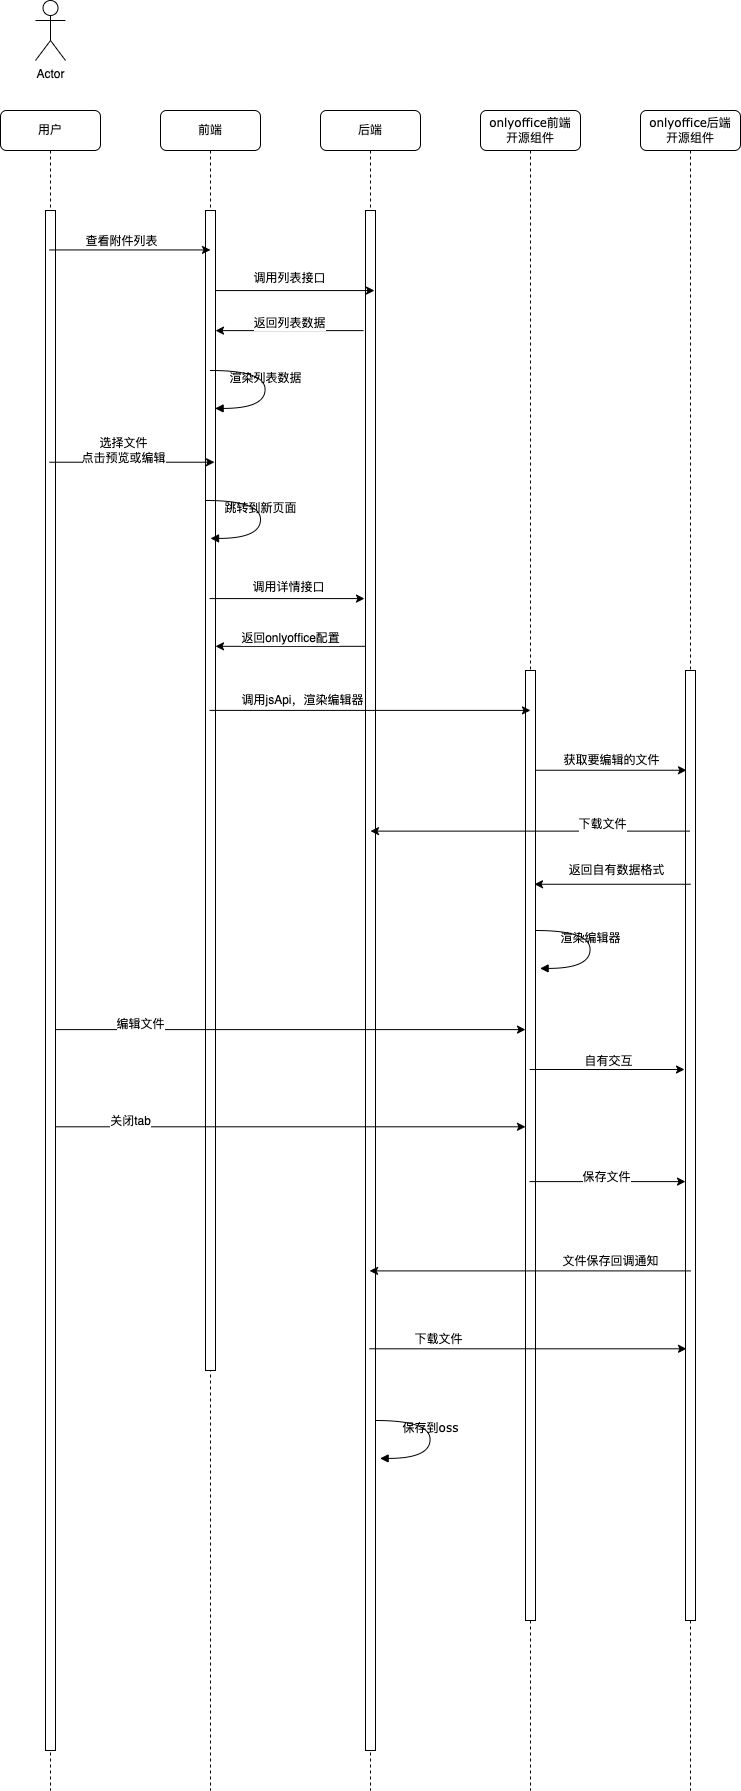
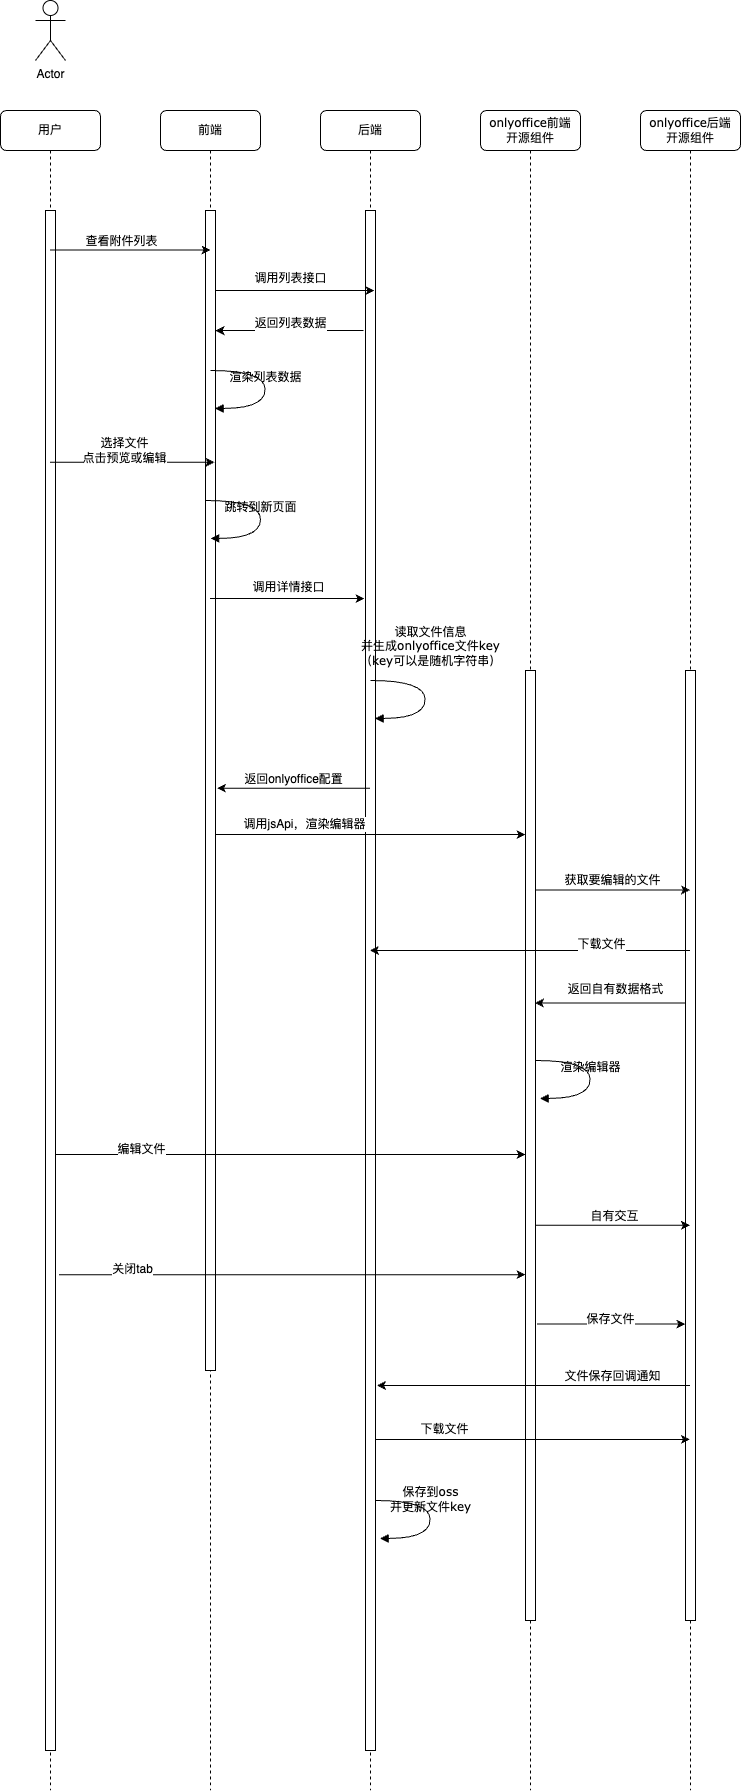
onlyoffice
onlyoffice

diff --git a/知识点总结/杂活/onlyoffice.md b/知识点总结/杂活/onlyoffice.md
@@ -1,0 +1,264 @@
+- [1.什么是onlyoffice](http://wiki.zswltech.cn:8888/display/SPC/onlyoffice#onlyoffice-1.什么是onlyoffice)
+- [2.部署资源](http://wiki.zswltech.cn:8888/display/SPC/onlyoffice#onlyoffice-2.部署资源)
+- [3.集成](http://wiki.zswltech.cn:8888/display/SPC/onlyoffice#onlyoffice-3.集成)
+  - [3.1集成方式及注意事项](http://wiki.zswltech.cn:8888/display/SPC/onlyoffice#onlyoffice-3.1集成方式及注意事项)
+    - [3.1.1前端](http://wiki.zswltech.cn:8888/display/SPC/onlyoffice#onlyoffice-3.1.1前端)
+    - [3.1.2后端](http://wiki.zswltech.cn:8888/display/SPC/onlyoffice#onlyoffice-3.1.2后端)
+    - [3.1.3注意事项](http://wiki.zswltech.cn:8888/display/SPC/onlyoffice#onlyoffice-3.1.3注意事项)
+  - [3.2操作时序图](http://wiki.zswltech.cn:8888/display/SPC/onlyoffice#onlyoffice-3.2操作时序图)
+  - [3.3权限控制的一种方式](http://wiki.zswltech.cn:8888/display/SPC/onlyoffice#onlyoffice-3.3权限控制的一种方式)
+- [4.onlyoffice重点配置](http://wiki.zswltech.cn:8888/display/SPC/onlyoffice#onlyoffice-4.onlyoffice重点配置)
+  - [4.1Config](http://wiki.zswltech.cn:8888/display/SPC/onlyoffice#onlyoffice-4.1Config)
+  - [4.2Config.Document](http://wiki.zswltech.cn:8888/display/SPC/onlyoffice#onlyoffice-4.2Config.Document)
+  - [4.3Config.Editor](http://wiki.zswltech.cn:8888/display/SPC/onlyoffice#onlyoffice-4.3Config.Editor)
+  - [4.4参数示例](http://wiki.zswltech.cn:8888/display/SPC/onlyoffice#onlyoffice-4.4参数示例)
+- [5.附录](http://wiki.zswltech.cn:8888/display/SPC/onlyoffice#onlyoffice-5.附录)
+  - [5.1也可以看看](http://wiki.zswltech.cn:8888/display/SPC/onlyoffice#onlyoffice-5.1也可以看看)
+  - [5.2相关网址](http://wiki.zswltech.cn:8888/display/SPC/onlyoffice#onlyoffice-5.2相关网址)
+
+
+
+# 1.什么是onlyoffice
+
+onlyoffice可以与我们的业务系统集成，提供文档协作的服务功能，支持Word，Excel和PowerPoint的预览和编辑。
+
+onlyoffice有开源社区版，有免费的版本，包含大部分商业版的功能，但有20同时在线连接的限制（可破解）。
+
+onlyoffice在浏览器上操作office文档功能肯定没有桌面版功能齐全，但是在web界面上做一些简单的操作还是可以的。
+
+# 2.部署资源
+
+建议使用docker部署，onlyoffice本身需要一些mq、数据库等相关配套组件（但这部分数据我个人认为并不需要保证不丢失，数据只用作缓存），如果单独安装相关套件，比较麻烦。
+
+# 3.集成
+
+## 3.1集成方式及注意事项
+
+简单来说，onlyoffice的使用方式就是前端引入onlyoffice的js文件，并传递参数调用它的api，唤起onlyoffice的编辑器，后续在界面上的操作全由onlyoffice自己处理。
+
+比较重要的配置就包括：文件的key、下载文件的url、编辑完后回调的url。
+
+最简单的实现情况下：后端3个接口，前端引1个js文件并调用后端1个接口。
+
+onlyoffice也提供了一些jsapi可供调用，前端可以在合适的时机（如封装一个按钮）进行调用以改变编辑器的属性。
+
+### 3.1.1前端
+
+1.针对onlyoffice，前端仅需要引入onlyoffice的一个js（{{host}}/web-apps/apps/api/documents/api.js），这个js文件会自动引用剩余所需的js文件并在合适的时机自动调用onlyoffice服务端（所以无法把这个js文件复制出来单独引用）。
+
+2.针对业务系统，前端需要调用后端提供的接口，获取onlyoffice的配置。（原因：后端可以动态判断权限或其他的条件，动态的修改编辑器的展现形式）
+
+3.在文件操作界面初始化时，调用后端配置接口获取onlyoffice配置，然后带着配置调用onlyoffice的jsapi，初始化编辑器。
+
+### 3.1.2后端
+
+1.针对onlyoffice，后端需要给它的服务端提供两个接口：文件下载接口和编辑后回调接口。
+
+文件下载接口：前端调用jsapi唤起编辑器时会传文件下载url，然后onlyoffice js会将该参数传给它的服务端，它的服务端会访问url下载文件。租赁系统的做法是将下载接口统一，文件的标识就是onlyoffice所需的文件key，根据该key我们需要维护对应的文件信息或oss路径，然后进行下载。
+
+编辑后回调接口：需提供一个POST（JSON）接口。用户在界面上编辑后，onlyoffice服务端回调回来的参数是一个json，里面包含了如本次操作类型、文件缓存下载地址（用户编辑完文件后，onlyoffice会将该文件暴露出一个下载地址，但有时效）等。我们的接口在接收到回调后，需下载缓存文件上传到我们自己的文件系统，并处理相关业务逻辑。
+
+2.针对业务系统，后端需要提供接口将onlyoffice的配置传递给前端。前端需传参数：要预览的文件标识（我们所有模块文件在一张表里，传1个文件id即可。如果要预览的文件散落在不同表，就需要额外参数来定位到具体的文件）、本次操作类型（预览还是编辑）、窗体类型（web端还是移动端）
+
+3.由于onlyoffice文件预览、编辑等都有个key，所以后端需要维护一套key → 业务自身文件数据的映射。租赁系统的做法是前端在调用接口获取onlyoffice配置的时候，针对该文件获取一个已存在的key，如果不存在则生成。用户在界面上编辑文件，onlyoffice回调我方后端时，根据key查到oss中存储的路径，保存文件后需更新此key（否则会导致编辑器报错：文件已发生变化，xxx）。
+
+给出一个key映射表以供参考，key的生成规则就是一个随机字符串
+
+```sql
+CREATE TABLE `onlyoffice_key_store` ( 
+  `id` bigint(20) NOT NULL AUTO_INCREMENT COMMENT '主键', 		  
+  `file_oss_path` varchar(256) NOT NULL COMMENT '文件oss路径', 
+  `file_oss_path_md5` varchar(32) NOT NULL COMMENT '文件oss路径 md5值', 
+  `file_key` varchar(32) NOT NULL COMMENT '随机生成的key，文件未改动前不变', 
+  `create_time` datetime DEFAULT CURRENT_TIMESTAMP, 
+  `update_time` datetime DEFAULT CURRENT_TIMESTAMP ON UPDATE CURRENT_TIMESTAMP, 
+  PRIMARY KEY (`id`)
+) ENGINE=InnoDB AUTO_INCREMENT=1 DEFAULT CHARSET=utf8mb4 COMMENT='onlyoffice文件key存档';
+```
+
+
+
+### 3.1.3注意事项
+
+1.后端返回的配置字段名最好都有确定值，如果没有值，字段值为null或undefined，会导致非预期的效果（不会使用默认配置）
+
+2.onlyoffice编辑后回调后端服务传的参数中，文件下载的url的host与前端引入js的host一致，后端服务需能访问该host才能正常下载文件。
+
+这个问题在我们的内网环境中有点绕，为了不连vpn访问业务系统，需要给onlyoffice服务器配域名（xxx.zswl.cn:8888），但是我们的服务器本身无法访问公网，正常情况下后端也就无法下载到文件。需要在后端服务器上配置host和nginx转发规则，后端访问域名（xxx.zswl.cn:8888）时需要通过内网访问到onlyoffice服务。
+
+3.注意对和onlyoffice服务端交互的接口放开登陆校验
+
+## 3.2操作时序图
+
+
+
+## 3.3权限控制的一种方式
+
+既然配置全由后端返回，后端就可以根据权限动态的填充参数，如果没有编辑权限，就报错或者填充成预览态的参数就好了。
+
+租赁系统的做法：先根据前端参数渲染出通用的配置，再根据当前想操作的文件相关的业务属性对配置做修改。
+
+# 4.onlyoffice重点配置
+
+上文中提过前端需要带着参数调用onlyoffice的jsapi唤起编辑器，这些参数就是一个json，这里简单描述下重点参数（都以官方字段命名进行描述，实际json里的字段名可能有出入）。
+
+官网配置属性介绍：https://api.onlyoffice.com/editors/config/
+
+## 4.1Config
+
+Config.documentType：文件类型（word、cell、slide（ppt等文件）），onlyoffice针对不同类型文件有不同的渲染方式
+
+Config.type：窗体类型（desktop、mobile、embedded），不同窗体有不同渲染方式，一般只用desktop（浏览器）、mobile（移动端）
+
+## 4.2Config.Document
+
+Config.Document.fileType：文件后缀名（不带.），如docx、xlsx。
+
+Config.Document.key：文件标识，同一个key代表同一个文件，onlyoffice自己有数据，并且多人协作时也需要根据这个key指向onlyoffice数据里的同一个文件。
+
+Config.Document.title：文件标题。
+
+Config.Document.url：文件下载地址，这个地址要能下载到一个文件，才能正常预览。
+
+Config.Document.Permissions.copy：界面上的内容是否可复制。
+
+Config.Document.Permissions.download：下载权限，设成false下载tab会被隐藏。
+
+Config.Document.Permissions.edit：编辑权限，设成false会展示预览态，但此处不是唯一的控制入口（Config.Editor.mode），两处配置的控制最好保持一致，否则会出现非预期的结果。
+
+Config.Document.Permissions.print：打印权限，设成false打印tab会隐藏。
+
+Config.Document.Permissions.review：查看修订变更的权限，最好设成true。
+
+## 4.3Config.Editor
+
+Config.Editor.callbackUrl：编辑后回调的url。这应该指向一个POST接口，传递回来的数据是json格式。
+
+Config.Editor.lang：语言参数，中文需设置成"zh-CN"，控制整个编辑器界面的显示的语言。
+
+Config.Editor.mode：编辑还是预览（edit、view），但此处不是唯一的控制入口（Config.Document.Permissions.edit），两处配置的控制最好保持一致，否则会出现非预期的结果。
+
+Config.Editor.region：地区参数，最好和Config.Editor.lang设置成一致的。中文设成"zh-CN"。
+
+Config.Editor.Customization.help：是否显示帮助tab。建议设成false关掉tab，因为显示的help会指向onlyoffice官网。
+
+Config.Editor.Customization.plugins：是否显示插件tab。设成false把插件tab关掉，全是没用的东西。
+
+Config.Editor.Customization.chat：是否显示聊天tab。如果没有需要建议设成false关掉。
+
+Config.Editor.Customization.comments：是否显示评论tab。如果没有需要建议设成false关掉。
+
+Config.Editor.Customization.forcesave：设置成true时，编辑态界面上点击保存按钮也会触发回调，可以保存文件。
+
+## 4.4参数示例
+
+预览态：
+
+```
+{
+    "documentType": "word",
+    "type": "desktop",
+    "document": {
+        "fileType": "docx",
+        "key": "qqt1ifsh0617au681j4kjzwq8xjz8vsr",
+        "title": "融资租赁合同-路乙乙科技",
+        "url": "http://172.16.200.21:7003/onlyoffice/download?key=qqt1ifsh0617au681j4kjzwq8xjz8vsr",
+        "permissions": {
+            "chat": false,
+            "comment": false,
+            "copy": true,
+            "download": true,
+            "edit": false,
+            "print": true,
+            "review": true
+        }
+    },
+    "editorConfig": {
+        "callbackUrl": "http://172.16.200.21:7003/onlyoffice/callback",
+        "lang": "zh-CN",
+        "region": "zh-CN",
+        "user": {
+            "id": "3",
+            "name": "administrator"
+        },
+        "customization": {
+            "autosave": true,
+            "comments": false,
+            "help": false,
+            "plugins": false
+        },
+        "mode": "view",
+        "coEditing": {
+            "mode": "fast",
+            "change": true
+        }
+    }
+}
+```
+
+编辑态：
+
+```
+{
+    "documentType": "word",
+    "type": "desktop",
+    "document": {
+        "fileType": "docx",
+        "key": "qqt1ifsh0617au681j4kjzwq8xjz8vsr",
+        "title": "融资租赁合同-路乙乙科技",
+        "url": "http://172.16.200.21:7003/onlyoffice/download?key=qqt1ifsh0617au681j4kjzwq8xjz8vsr",
+        "permissions": {
+            "chat": false,
+            "comment": false,
+            "copy": true,
+            "download": true,
+            "edit": true,
+            "print": true,
+            "review": true
+        }
+    },
+    "editorConfig": {
+        "callbackUrl": "http://172.16.200.21:7003/onlyoffice/callback",
+        "lang": "zh-CN",
+        "region": "zh-CN",
+        "user": {
+            "id": "3",
+            "name": "administrator"
+        },
+        "customization": {
+            "autosave": true,
+            "comments": false,
+            "help": false,
+            "plugins": false
+        },
+        "mode": "edit",
+        "coEditing": {
+            "mode": "fast",
+            "change": true
+        }
+    }
+}
+```
+
+
+
+# 5.附录
+
+## 5.1相关网址
+
+官网
+
+https://www.onlyoffice.com/
+
+官网配置属性介绍（部分属性仅在商业版可使用）
+
+https://api.onlyoffice.com/editors/config/
+
+github
+
+https://github.com/ONLYOFFICE/DocumentServer
+
+一些博客教程
+
+https://www.cnblogs.com/cat520/p/9334063.html
+https://juejin.cn/post/6979819010313420807
